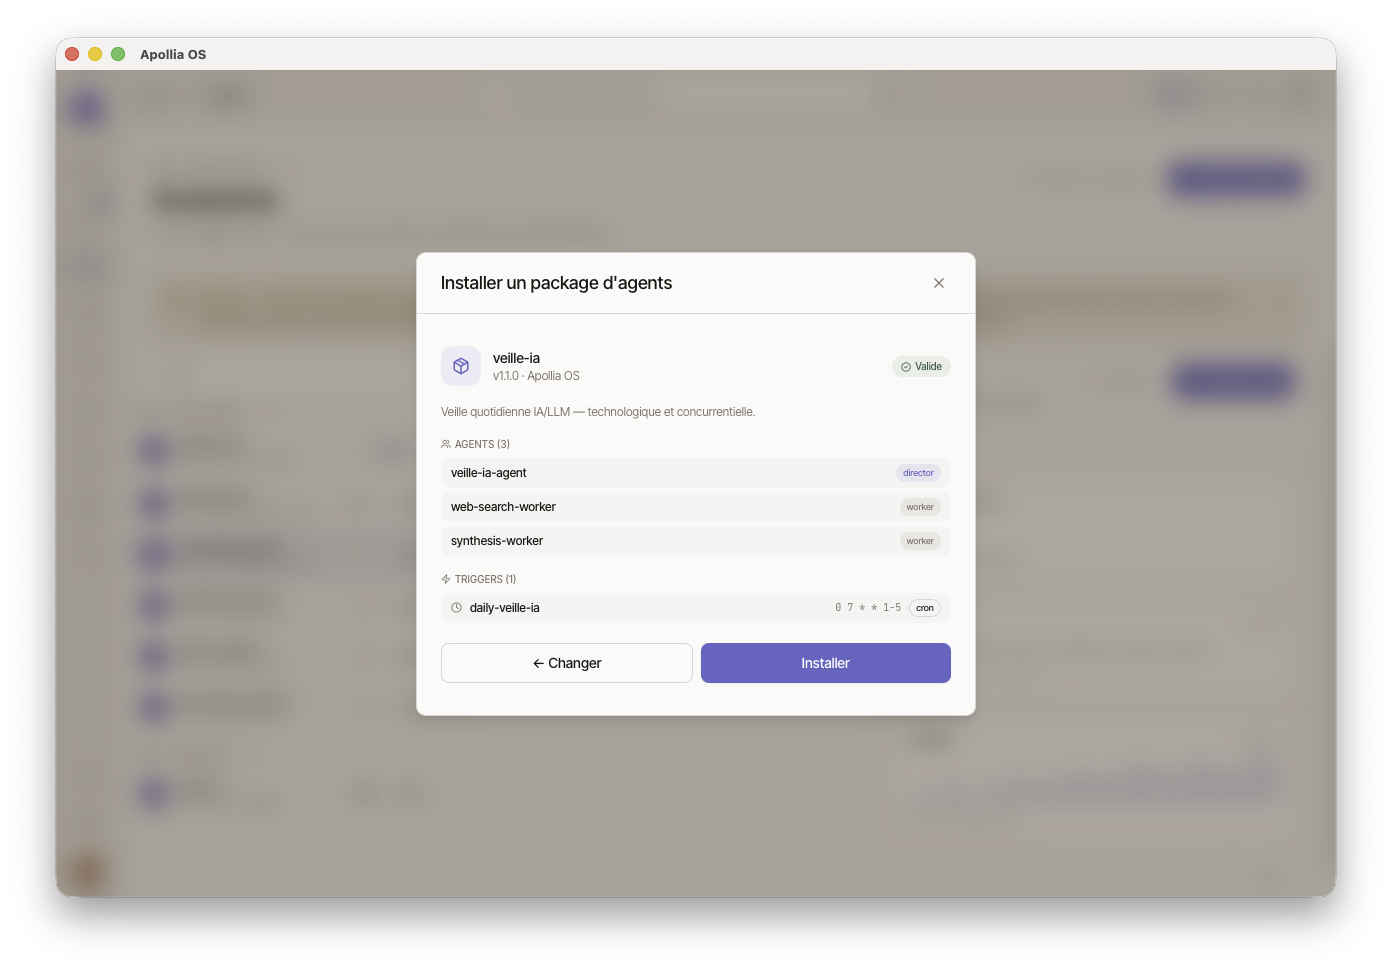
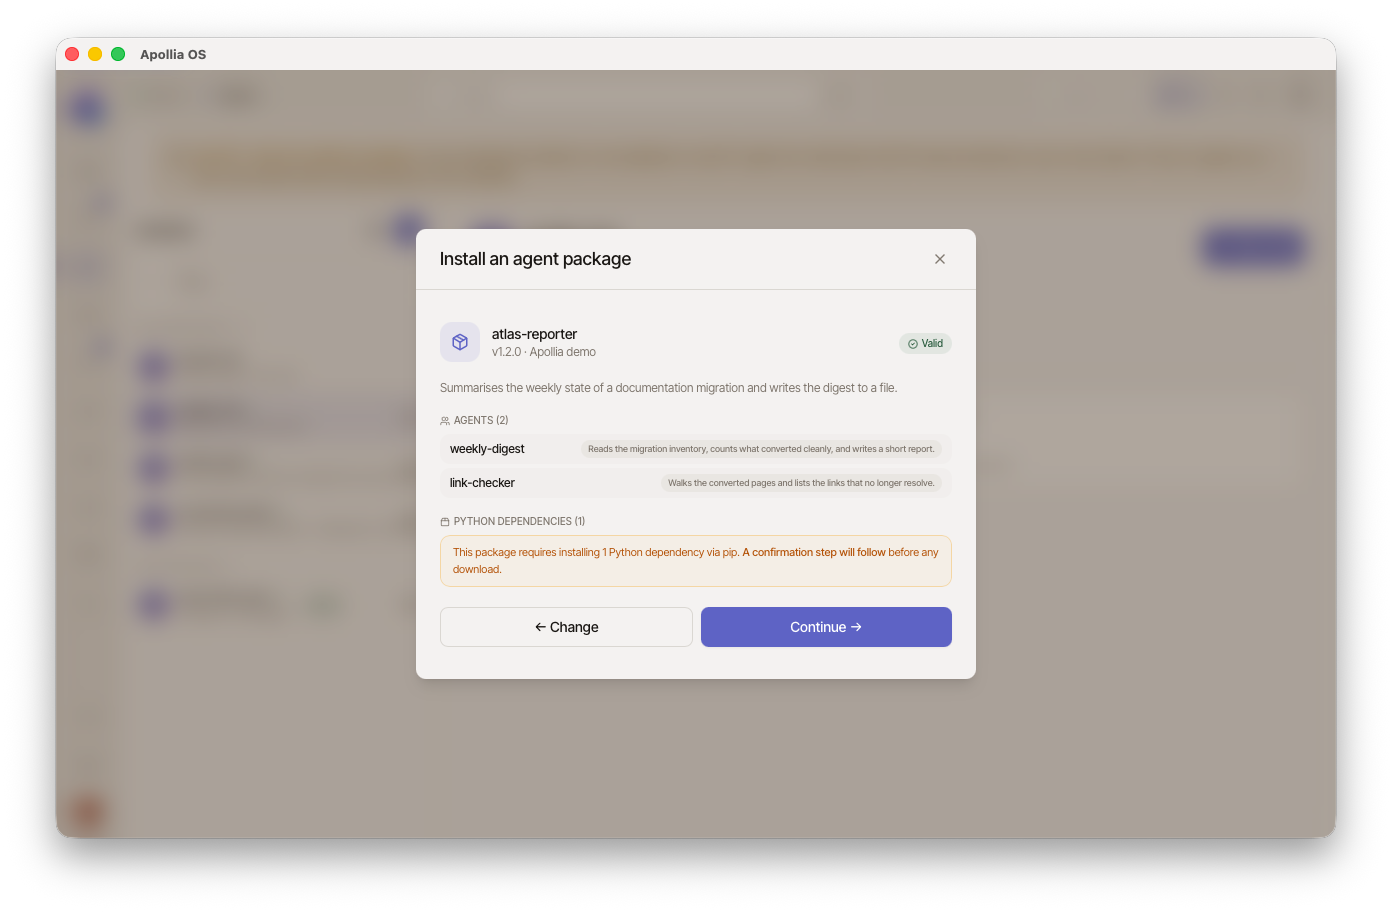
fix(automation): valid demo packages, MCP tools the model can see, Google placeholders
Three things blocking the shooting session, each with a different cause.

The demo packages would not install. `role` is not free text: the loader
accepts exactly `director`, `worker` and `assistant`, and rejects the package
on anything else. Mine carried a sentence describing what each agent does. The
pip dependency goes too, deliberately: declaring one makes the installer ask
for confirmation, build a virtualenv and run pip, which needs the network and
turns a shooting step into a wait that can fail. The Preview step shows the
same Agents section either way. Both rules are recorded in the package README
so the next set does not repeat them.

The model could not call MCP tools. Not a stub limitation and not a defect:
`tool_loading` defaults to `deferred`, which indexes tool names but never puts
the schemas in front of the model, expecting it to discover them through the
synthetic `tool_search` tool first, which it does not reliably do. The seed now
asks for `eager`. Two servers and six tools is the small fixed set the
reference page says eager is for, so this bends nothing.

Google is deferred for this release. The three images are placeholders that say
so on their face, naming the screen they will show and why they are not there.
A reader who lands on one learns something true rather than seeing a broken
image, and the shooting checklist says how to replace them.

diff --git a/scripts/automation/SHOOT-BY-HAND.md b/scripts/automation/SHOOT-BY-HAND.md
@@ -90,7 +90,11 @@ Same rule as row 4: past 60 %, cancel and restart.
 ## Session C. Installing a package, four images
 
 Two demo packages exist for this, in `~/apollia-demo-packages/`. They carry
-metadata only and are never executed. Their README says which is which.
+metadata only and are never executed. Their README says which is which, and
+records the two rules that made the first version of them fail to install:
+`role` accepts only `director`, `worker` or `assistant`, and neither package
+declares a pip dependency, because declaring one sends the installer into a
+virtualenv build and a network round trip in the middle of a shooting session.
 
 - **`atlas-reporter`**: two agents, one pip dependency, no triggers.
 - **`inbox-triage`**: one agent, two triggers, a webhook and a schedule.
@@ -122,32 +126,41 @@ yet. Add one and this becomes the fourteenth automated capture.
 ## Session E. An MCP tool approval, one image
 
 Needs `llama-server` on the `PATH` and the seed loaded: it connects two MCP
-servers, `notes` and `filesystem`.
+servers, `notes` and `filesystem`, six tools between them.
 
 | File | Gesture | What must be on screen | Crop |
 |---|---|---|---|
-| `integration-comprendre-les-permissions-mcp-1.png` | In a chat, ask the model to use a tool from the `notes` MCP server, for instance `List the notes available on the notes server and read the most recent one.` | The approval popup: the tool title, the exposed parameters, Allow once / Deny, and the scope note. | panel |
+| `integration-comprendre-les-permissions-mcp-1.png` | In a chat, ask: `List the seed notes using the notes server, then read the most recent one.` | The approval popup: the tool title, the exposed parameters, Allow once / Deny, and the scope note. | panel |
 
-The model does not always reach for the MCP tool on the first try. Rephrase
-until it does, then shoot. That unpredictability is exactly why the automaton
-cannot take this one.
+If the model answers that it cannot call MCP tools and only lists resources,
+that is not a product defect and not a stub limitation: MCP tool loading
+defaults to `deferred`, which indexes tool names but never puts their schemas in
+front of the model. It is supposed to find them through the synthetic
+`tool_search` tool first, and it does not reliably do that on the first try.
+
+The seed now sets `tool_loading = "eager"` for exactly this reason, which puts
+the six tools directly in the model's toolset. Two servers and six tools is the
+small fixed set the reference page says eager is for, so nothing is bent. If you
+loaded the seed before that change, reload it.
 
 ---
 
-## Session F. Google Workspace, three images
+## Session F. Google Workspace, three images, deferred
 
-Needs a real Google account **and** your own OAuth client, since Apollia
-deliberately embeds none.
+**Skipped for this release.** The three images are placeholders that say so on
+their face: a "screenshot pending" card naming the screen it will show and why
+it is not there. They ship rather than leaving a broken image, and a reader who
+lands on one learns something true instead of seeing nothing.
 
-| File | Gesture | What must be on screen | Crop |
-|---|---|---|---|
-| `integration-google-workspace-1.png` | Connections, the Google Workspace card. | The card selected showing Not connected, and the right panel with the connect action. | page |
-| `integration-google-workspace-2.png` | Click Connect, follow through to Google. | Google's own consent screen listing the requested permissions. | dialog |
-| `integration-google-workspace-3.png` | Come back to Apollia after consenting. | The Drive folder dialog, the `drive.file` scope explanation, the Folder path field. | dialog |
+| File | What it will show, when it is shot |
+|---|---|
+| `integration-google-workspace-1.png` | The Connections page, Google Workspace card selected showing Not connected, connect action in the right panel. |
+| `integration-google-workspace-2.png` | Google's own consent screen listing the requested permissions. |
+| `integration-google-workspace-3.png` | Back in Apollia after consent: the Drive folder dialog, the `drive.file` scope explanation, the Folder path field. |
 
-If you have neither account nor client today, leave these three stale and say so
-in the release notes. They are the only three in the whole set where that is the
-honest answer.
+They need a real Google account **and** your own OAuth client, since Apollia
+deliberately embeds none. Regenerate the placeholders, or replace them with real
+captures, whenever that changes.
 
 ---
 
